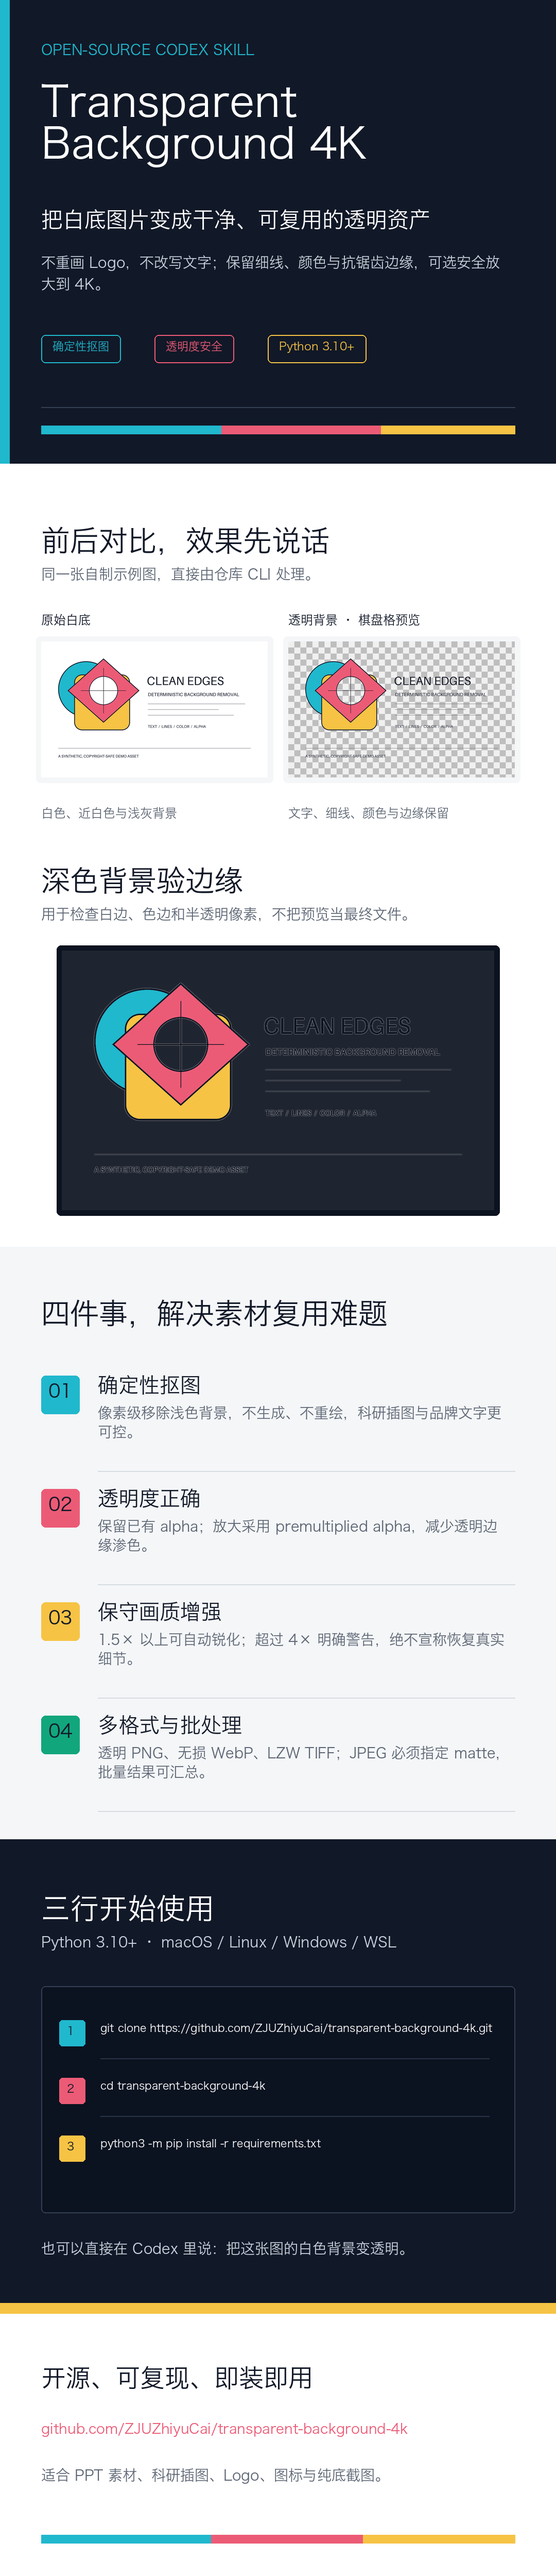
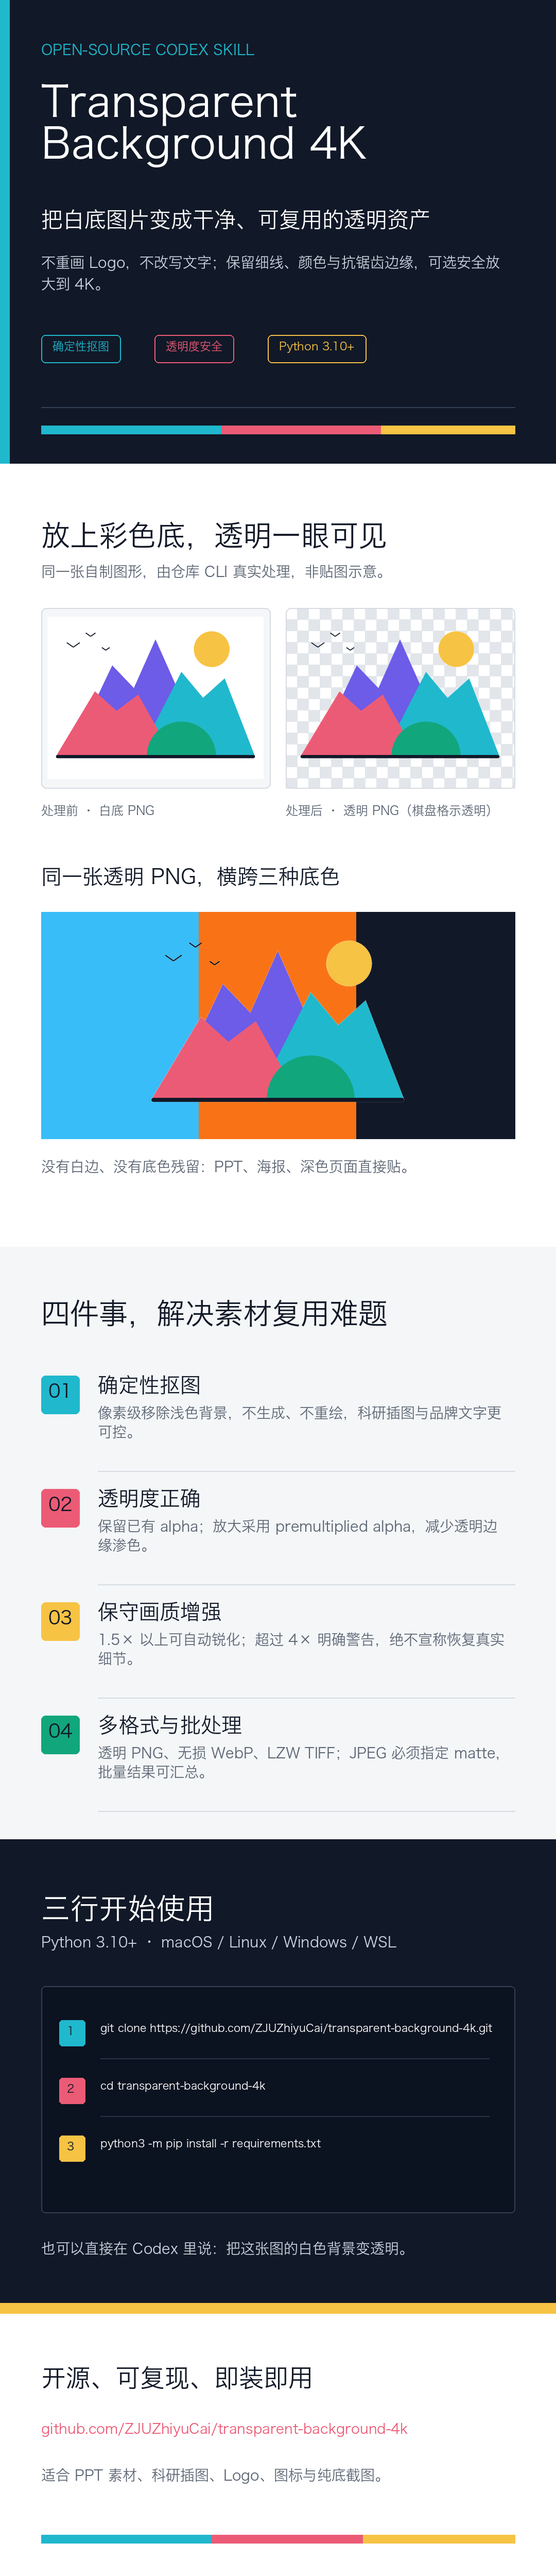
Redesign promo poster with mountain artwork and colored transparency boards

Changed region(s): [[0.0611, 0.1872, 0.9472, 0.4992]]

diff --git a/assets/promo/make_promo.py b/assets/promo/make_promo.py
@@ -28,6 +28,7 @@ CYAN = "#20B8CD"
 CORAL = "#EC5B76"
 YELLOW = "#F6C344"
 GREEN = "#12A67D"
+VIOLET = "#6C5CE7"
 
 
 def load_font(size: int) -> ImageFont.FreeTypeFont:
@@ -46,6 +47,32 @@ def fit_image(path: Path, size: tuple[int, int]) -> Image.Image:
             size,
             method=Image.Resampling.LANCZOS,
         )
+
+
+def contain_rgba(path: Path, box: tuple[int, int]) -> Image.Image:
+    """Load an image with alpha and shrink it to fit inside the box."""
+    with Image.open(path) as source:
+        image = source.convert("RGBA")
+    image.thumbnail(box, Image.Resampling.LANCZOS)
+    return image
+
+
+def draw_checkerboard(
+    draw: ImageDraw.ImageDraw,
+    box: tuple[int, int, int, int],
+    tile: int = 22,
+) -> None:
+    """Fill a rectangle with the classic transparency checkerboard."""
+    left, top, right, bottom = box
+    draw.rectangle(box, fill="#FFFFFF")
+    for row, y in enumerate(range(top, bottom, tile)):
+        for col, x in enumerate(range(left, right, tile)):
+            if (row + col) % 2 == 0:
+                continue
+            draw.rectangle(
+                (x, y, min(x + tile, right), min(y + tile, bottom)),
+                fill="#E2E6EB",
+            )
 
 
 def wrapped_lines(
@@ -152,12 +179,11 @@ def main() -> None:
         "url": load_font(27),
     }
 
-    source_path = ROOT / "examples" / "demo_source.png"
-    checker_path = (
-        ROOT / "examples" / "demo_source_transparent_preview_checker.png"
+    source_path = Path(__file__).with_name("promo_art_source.png")
+    transparent_path = Path(__file__).with_name(
+        "promo_art_source_transparent.png"
     )
-    dark_path = ROOT / "examples" / "demo_source_transparent_preview_dark.png"
-    for required in (source_path, checker_path, dark_path):
+    for required in (source_path, transparent_path):
         if not required.is_file():
             raise FileNotFoundError(f"Required demo asset is missing: {required}")
 
@@ -203,62 +229,83 @@ def main() -> None:
     draw.rectangle((430, 826, 740, 842), fill=CORAL)
     draw.rectangle((740, 826, 1000, 842), fill=YELLOW)
 
-    # Before and after
+    # Transparency proof: same PNG on checkerboard and colored boards
     draw.rectangle((0, 900, WIDTH, 2420), fill=WHITE)
     draw.text(
-        (80, 1020),
-        "前后对比，效果先说话",
+        (80, 1010),
+        "放上彩色底，透明一眼可见",
         font=fonts["section"],
         fill=INK,
     )
     draw.text(
-        (80, 1100),
-        "同一张自制示例图，直接由仓库 CLI 处理。",
+        (80, 1095),
+        "同一张自制图形，由仓库 CLI 真实处理，非贴图示意。",
         font=fonts["body"],
         fill=MUTED,
     )
-    draw.text((80, 1190), "原始白底", font=fonts["caption"], fill=INK)
-    draw.text(
-        (560, 1190),
-        "透明背景 · 棋盘格预览",
-        font=fonts["caption"],
-        fill=INK,
-    )
 
-    source = fit_image(source_path, (440, 264))
-    checker = fit_image(checker_path, (440, 264))
-    draw.rounded_rectangle((70, 1235, 530, 1519), radius=8, fill=PAPER)
-    draw.rounded_rectangle((550, 1235, 1010, 1519), radius=8, fill=PAPER)
-    canvas.paste(source, (80, 1245))
-    canvas.paste(checker, (560, 1245))
-    draw.text(
-        (80, 1565),
-        "白色、近白色与浅灰背景",
-        font=fonts["caption"],
-        fill=MUTED,
+    art_before = contain_rgba(source_path, (420, 315))
+    art_alpha = contain_rgba(transparent_path, (420, 315))
+
+    draw.rounded_rectangle(
+        (80, 1180, 525, 1530), radius=10, fill=PAPER, outline=LINE, width=2
     )
+    canvas.paste(
+        art_before,
+        (80 + (445 - art_before.width) // 2, 1180 + (350 - art_before.height) // 2),
+        art_before,
+    )
+    draw_checkerboard(draw, (555, 1180, 1000, 1530))
+    draw.rounded_rectangle(
+        (555, 1180, 1000, 1530), radius=10, outline=LINE, width=2
+    )
+    canvas.paste(
+        art_alpha,
+        (555 + (445 - art_alpha.width) // 2, 1180 + (350 - art_alpha.height) // 2),
+        art_alpha,
+    )
+    draw.text((80, 1560), "处理前 · 白底 PNG", font=fonts["caption"], fill=MUTED)
     draw.text(
-        (560, 1565),
-        "文字、细线、颜色与边缘保留",
+        (555, 1560),
+        "处理后 · 透明 PNG（棋盘格示透明）",
         font=fonts["caption"],
         fill=MUTED,
     )
 
     draw.text(
         (80, 1680),
-        "深色背景验边缘",
-        font=fonts["section"],
+        "同一张透明 PNG，横跨三种底色",
+        font=fonts["cap_title"],
         fill=INK,
     )
+    strip = (80, 1770, 1000, 2210)
+    panel_width = (strip[2] - strip[0]) // 3
+    # Panel hues deliberately avoid the artwork palette so every peak stays visible.
+    for index, color in enumerate(("#38BDF8", "#F97316", INK)):
+        draw.rectangle(
+            (
+                strip[0] + index * panel_width,
+                strip[1],
+                strip[0] + (index + 1) * panel_width if index < 2 else strip[2],
+                strip[3],
+            ),
+            fill=color,
+        )
+    art_strip = contain_rgba(transparent_path, (860, 400))
+    canvas.paste(
+        art_strip,
+        (
+            strip[0] + (strip[2] - strip[0] - art_strip.width) // 2,
+            strip[1] + (strip[3] - strip[1] - art_strip.height) // 2,
+        ),
+        art_strip,
+    )
     draw.text(
-        (80, 1760),
-        "用于检查白边、色边和半透明像素，不把预览当最终文件。",
+        (80, 2250),
+        "没有白边、没有底色残留：PPT、海报、深色页面直接贴。",
         font=fonts["body"],
         fill=MUTED,
     )
-    dark_preview = fit_image(dark_path, (840, 504))
-    draw.rounded_rectangle((110, 1835, 970, 2359), radius=8, fill=DEEP)
-    canvas.paste(dark_preview, (120, 1845))
 
     # Capabilities
     draw.rectangle((0, 2420, WIDTH, 3570), fill=PAPER)

diff --git a/assets/promo/make_promo_art.py b/assets/promo/make_promo_art.py
@@ -1,0 +1,127 @@
+#!/usr/bin/env python3
+"""Generate the text-free promotional artwork and its real transparent output.
+
+The artwork is a deterministic flat-style mountain scene drawn with Pillow on a
+pure white background. The transparent version is produced by the repository's
+own CLI so the poster always shows a genuine processing result.
+"""
+
+import subprocess
+import sys
+from pathlib import Path
+
+from PIL import Image, ImageDraw
+
+ROOT = Path(__file__).resolve().parents[2]
+ART_SOURCE = Path(__file__).with_name("promo_art_source.png")
+ART_TRANSPARENT = Path(__file__).with_name("promo_art_source_transparent.png")
+
+# Final canvas and supersampling factor for smooth antialiased edges.
+SIZE = (1440, 1080)
+SS = 3
+
+NAVY = (17, 24, 39, 255)
+CORAL = (236, 91, 118, 255)
+TEAL = (32, 184, 205, 255)
+AMBER = (246, 195, 68, 255)
+EMERALD = (18, 166, 125, 255)
+VIOLET = (108, 92, 231, 255)
+
+
+def draw_mark() -> Image.Image:
+    width, height = SIZE[0] * SS, SIZE[1] * SS
+    canvas = Image.new("RGBA", (width, height), (255, 255, 255, 255))
+    draw = ImageDraw.Draw(canvas)
+
+    def px(fx: float, fy: float) -> tuple[int, int]:
+        return int(width * fx), int(height * fy)
+
+    baseline = int(height * 0.86)
+
+    # Amber sun, drawn first so the peaks overlap it.
+    sun_r = int(height * 0.11)
+    sun_cx, sun_cy = px(0.76, 0.20)
+    draw.ellipse(
+        (sun_cx - sun_r, sun_cy - sun_r, sun_cx + sun_r, sun_cy + sun_r),
+        fill=AMBER,
+    )
+
+    # Back range: tall violet peak with a shoulder.
+    draw.polygon(
+        [px(0.10, 0.86), px(0.30, 0.30), px(0.40, 0.44),
+         px(0.50, 0.14), px(0.74, 0.86)],
+        fill=VIOLET,
+    )
+    # Middle range: teal peaks on the right.
+    draw.polygon(
+        [px(0.42, 0.86), px(0.62, 0.34), px(0.72, 0.50),
+         px(0.82, 0.38), px(0.96, 0.86)],
+        fill=TEAL,
+    )
+    # Front range: coral peak on the left.
+    draw.polygon(
+        [px(0.04, 0.86), px(0.22, 0.46), px(0.32, 0.58),
+         px(0.42, 0.48), px(0.58, 0.86)],
+        fill=CORAL,
+    )
+    # Foreground: small emerald hill anchoring the right corner.
+    hill_r = int(width * 0.16)
+    draw.pieslice(
+        (int(width * 0.62) - hill_r, baseline - hill_r,
+         int(width * 0.62) + hill_r, baseline + hill_r),
+        start=180, end=360, fill=EMERALD,
+    )
+    # Navy ground line keeps the composition grounded.
+    draw.rounded_rectangle(
+        (int(width * 0.04), baseline - int(height * 0.008),
+         int(width * 0.96), baseline + int(height * 0.012)),
+        radius=int(height * 0.01),
+        fill=NAVY,
+    )
+
+    # Thin navy birds: prove fine lines survive the pipeline.
+    line_w = max(SS, int(height * 0.006))
+    for fx, fy, s in ((0.12, 0.16, 1.0), (0.20, 0.10, 0.75), (0.27, 0.19, 0.6)):
+        bx, by = px(fx, fy)
+        wing = int(width * 0.030 * s)
+        drop = int(height * 0.028 * s)
+        draw.line((bx - wing, by, bx, by + drop), fill=NAVY, width=line_w)
+        draw.line((bx, by + drop, bx + wing, by), fill=NAVY, width=line_w)
+
+    return canvas.resize(SIZE, Image.Resampling.LANCZOS)
+
+
+def main() -> int:
+    art = draw_mark().convert("RGB")
+    art.save(ART_SOURCE, format="PNG")
+    print(f"art source: {ART_SOURCE} {art.size}")
+
+    result = subprocess.run(
+        [
+            sys.executable,
+            str(ROOT / "scripts" / "make_transparent_4k.py"),
+            str(ART_SOURCE),
+            "--background-scope",
+            "all",
+            "--bg",
+            "white",
+            "--edge-matte-strength",
+            "1.0",
+            "--overwrite",
+        ],
+        capture_output=True,
+        text=True,
+    )
+    if result.returncode != 0:
+        print(result.stdout)
+        print(result.stderr, file=sys.stderr)
+        return result.returncode
+    if not ART_TRANSPARENT.exists():
+        print("expected transparent output missing", file=sys.stderr)
+        return 1
+    print(f"transparent: {ART_TRANSPARENT}")
+    return 0
+
+
+if __name__ == "__main__":
+    raise SystemExit(main())
